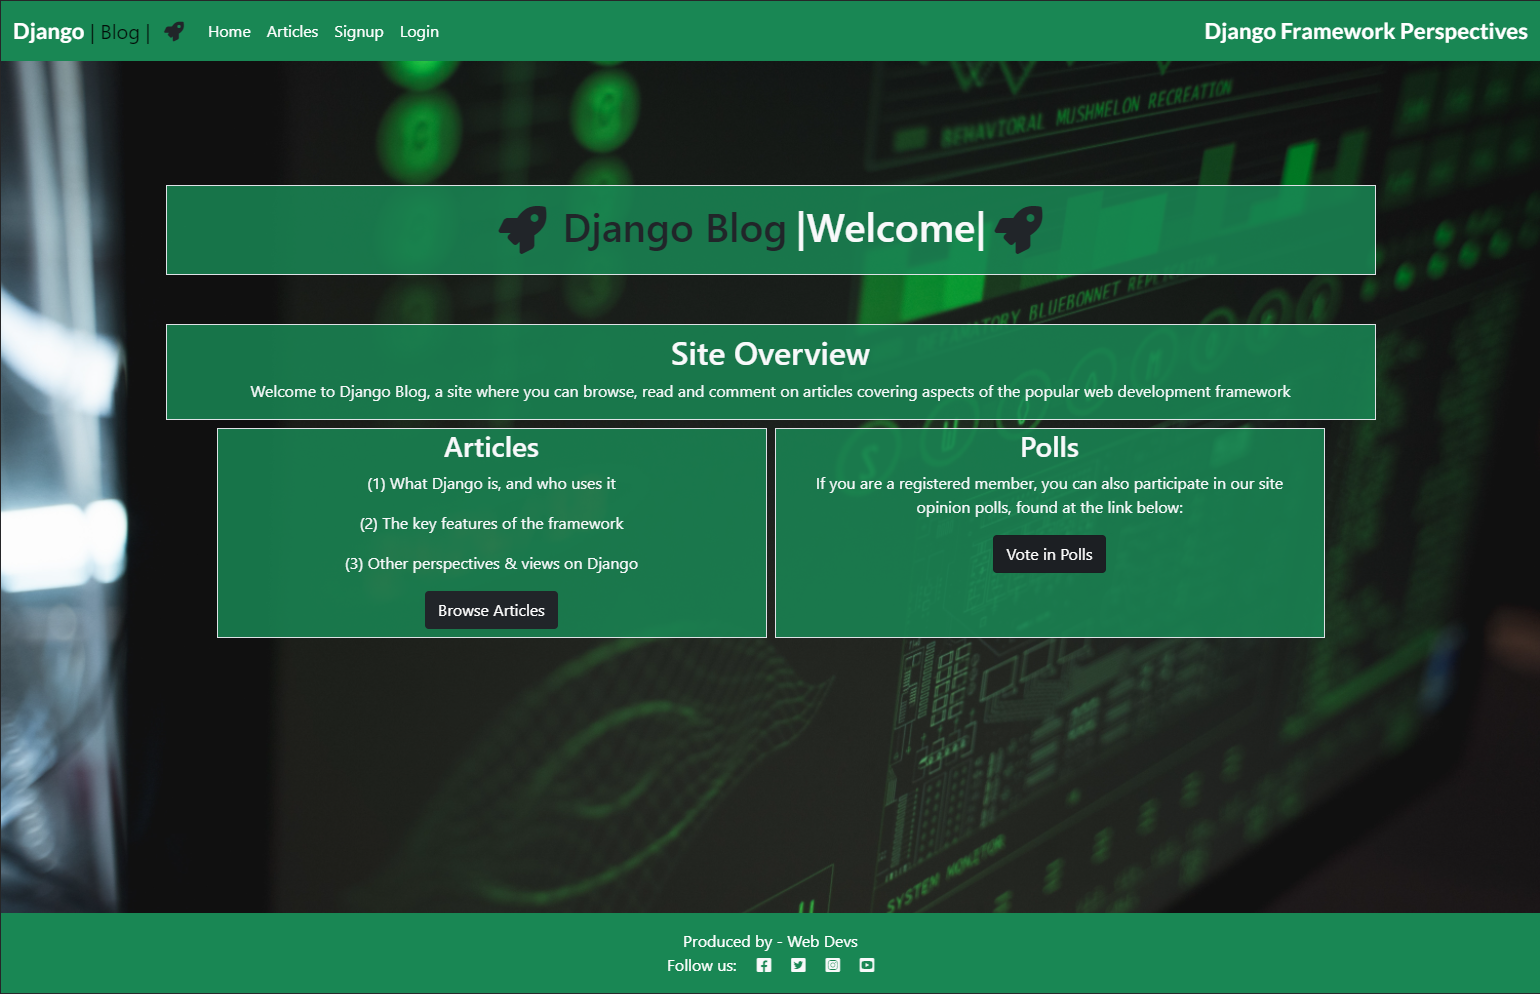
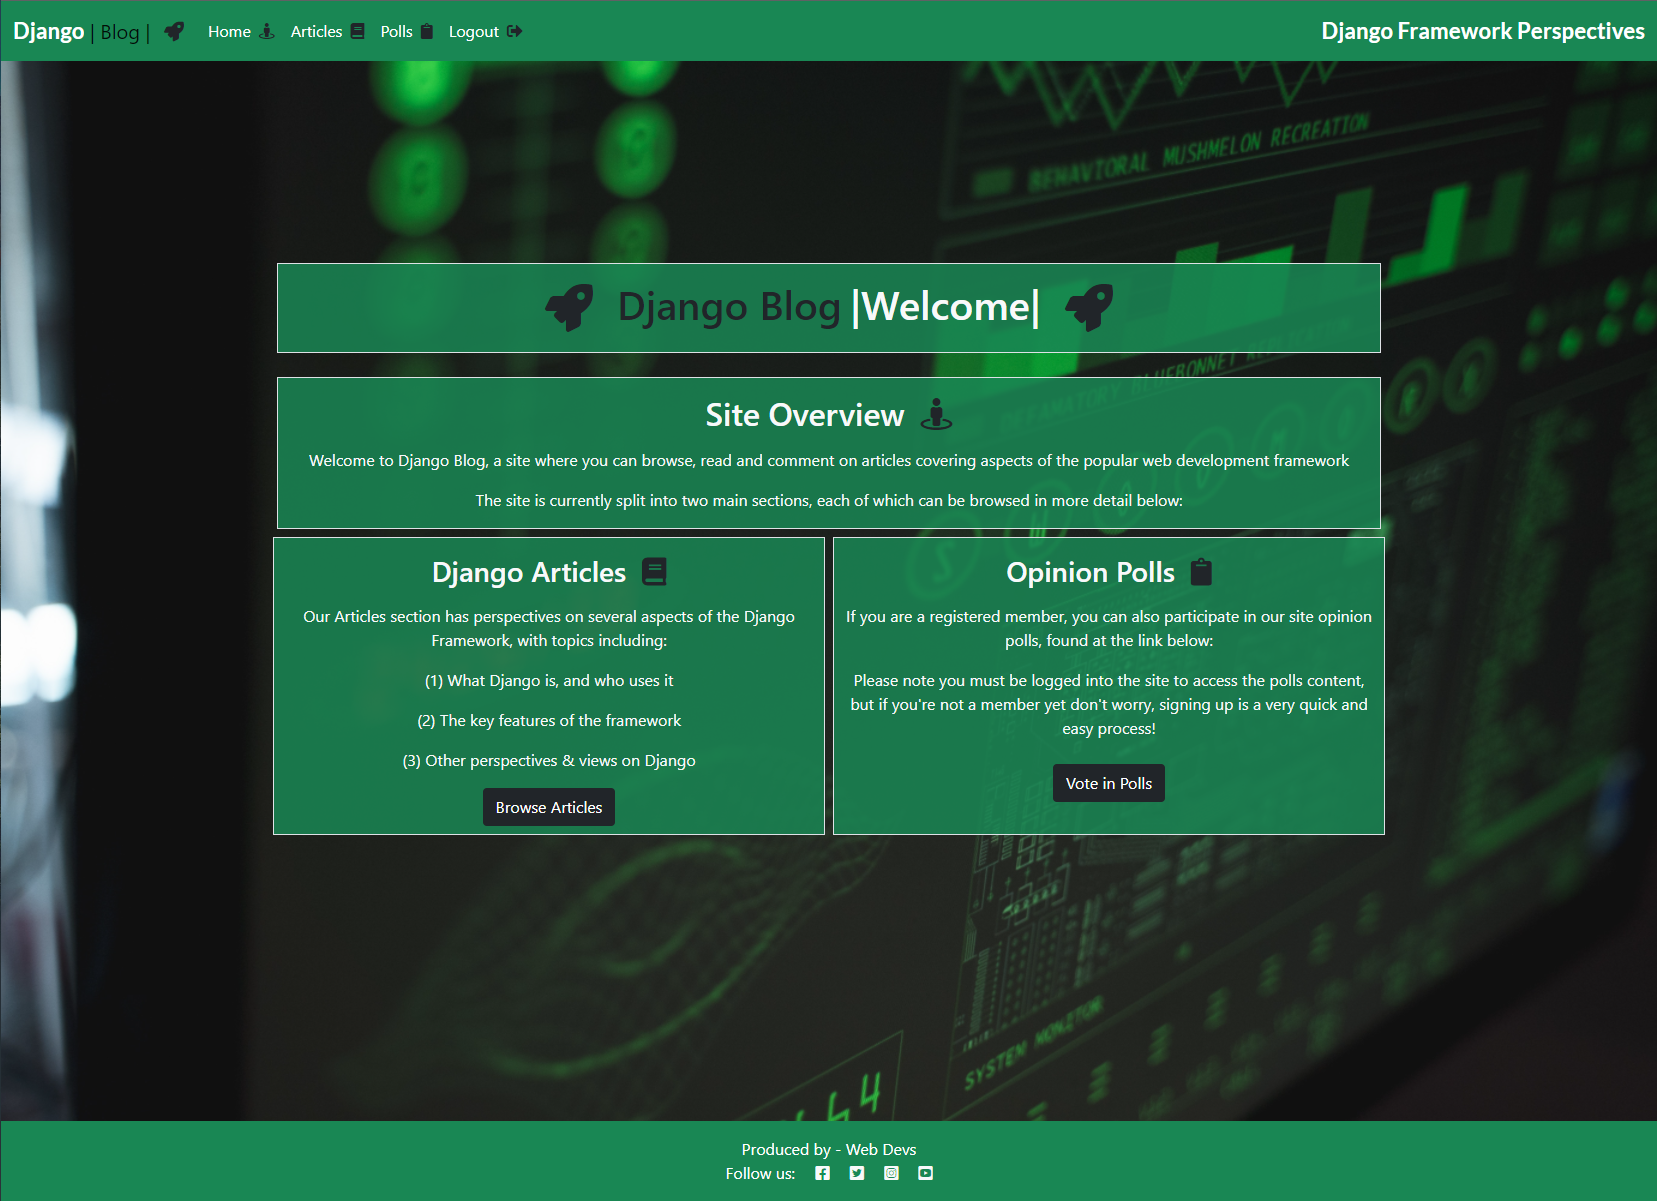
Add iconography to primary HTML templates - login, logout, signup, home

diff --git a/templates/base.html b/templates/base.html
@@ -41,25 +41,25 @@
             <div class="collapse navbar-collapse" id="navbarText">
                 <ul class="navbar-nav me-auto mb-2 mb-lg-0">
                     <li class="nav-item">
-                        <a class="nav-link active color text-white" aria-current="page" href="{% url 'home' %}">Home</a>
+                        <a class="nav-link active color text-white" aria-current="page" href="{% url 'home' %}">Home<i class="fas fa-street-view text-dark ps-2"></i></a>
                     </li>
                     <li class="nav-item">
-                        <a class="nav-link active color text-white" aria-current="page" href="{% url 'post_list' %}">Articles</a>
+                        <a class="nav-link active color text-white" aria-current="page" href="{% url 'post_list' %}">Articles<i class="fas fa-book text-dark ps-2"></i></a>
                     </li>
                     {% if user.is_authenticated %}
                     <li class="nav-item">
-                        <a class="nav-link text-white" href="{% url 'poll:index' %}">Polls</a>
+                        <a class="nav-link text-white" href="{% url 'poll:index' %}">Polls<i class="fas fa-clipboard text-dark ps-2"></i></a>
                     </li>
                     <li class="nav-item">
-                        <a class="nav-link text-white" href="{% url 'account_logout' %}">Logout</a>
+                        <a class="nav-link text-white" href="{% url 'account_logout' %}">Logout<i class="fas fa-sign-out-alt text-dark ps-2"></i></a>
                     </li>
                     
                     {% else %}
                     <li class="nav-item">
-                        <a class="nav-link text-white" href="{% url 'account_signup' %}">Signup</a>
+                        <a class="nav-link text-white" href="{% url 'account_signup' %}">Signup<i class="fas fa-address-card text-dark ps-2"></i></a>
                     </li>
                     <li class="nav-item">
-                        <a class="nav-link text-white" href="{% url 'account_login' %}">Login</a>
+                        <a class="nav-link text-white" href="{% url 'account_login' %}">Login<i class="fas fa-door-open text-dark ps-2"></i></a>
                     </li>
                     
                     

diff --git a/templates/account/login.html b/templates/account/login.html
@@ -11,7 +11,7 @@
     <div class="px-3 green border border-white pb-4 my-4 text-light">
         <div class="row">
             <div class="col-md-9 mt-3 offset-md-1">
-                <h3>{% trans "Sign In" %}</h3>
+                <h3 class="py-4">{% trans "Sign In" %}<i class="fas fa-door-open text-dark ps-3"></i></h3>
                 <p>{% blocktrans %}Welcome back to Django Blog - To leave a comment or like an article, please log in. If you
                   have not created an account yet, then please <a class="link" href="{{ signup_url }}">SIGN UP</a>
                   first.{% endblocktrans %}</p>
@@ -25,7 +25,7 @@
                     {% if redirect_field_value %}
                         <input type="hidden" name="{{ redirect_field_name }}" value="{{ redirect_field_value }}" />
                     {% endif %}
-                    <button class="btn btn-dark" type="submit">{% trans "Sign In" %}</button>
+                    <button class="btn btn-dark mt-2" type="submit">{% trans "Sign In" %}</button>
                 </form>
             </div>
         </div>

diff --git a/templates/account/signup.html b/templates/account/signup.html
@@ -9,7 +9,7 @@
     <div class="px-3 green border border-white pb-4 my-4 text-light">
         <div class="row">
             <div class="col-md-9 mt-3 offset-md-1">
-                <h3>{% trans "Sign Up" %}</h3>
+                <h3 class="py-4">{% trans "Sign Up" %}<i class="fas fa-address-card text-dark ps-3"></i></h3>
                 <p>{% blocktrans %}Welcome to Django Blog - Do you already have an account? Then please <a
                         class="link" href="{{ login_url }}">SIGN IN</a> instead.{% endblocktrans %}</p>
             </div>
@@ -22,7 +22,7 @@
                     {% if redirect_field_value %}
                     <input type="hidden" name="{{ redirect_field_name }}" value="{{ redirect_field_value }}" />
                     {% endif %}
-                    <button class="btn btn-dark" type="submit">{% trans "Sign Up" %} &raquo;</button>
+                    <button class="btn btn-dark mt-2" type="submit">{% trans "Sign Up" %} &raquo;</button>
                 </form>
             </div>
         </div>

diff --git a/templates/account/logout.html b/templates/account/logout.html
@@ -14,9 +14,9 @@
 
                 <div class="row">
                     <div class="col-md-9 mt-3 offset-md-1">
-                        <h3>{% trans "Sign Out" %}</h3>
+                        <h3>{% trans "Sign Out" %}<i class="fas fa-sign-out-alt text-dark ps-3"></i></h3>
 
-                        <p>{% trans 'Are you sure you want to sign out of your session on Django Blog?' %}</p>
+                        <p>{% trans 'Are you sure you want to sign out of your current session on Django Blog?' %}</p>
                     </div>
                 </div>
                 <div class="row">
